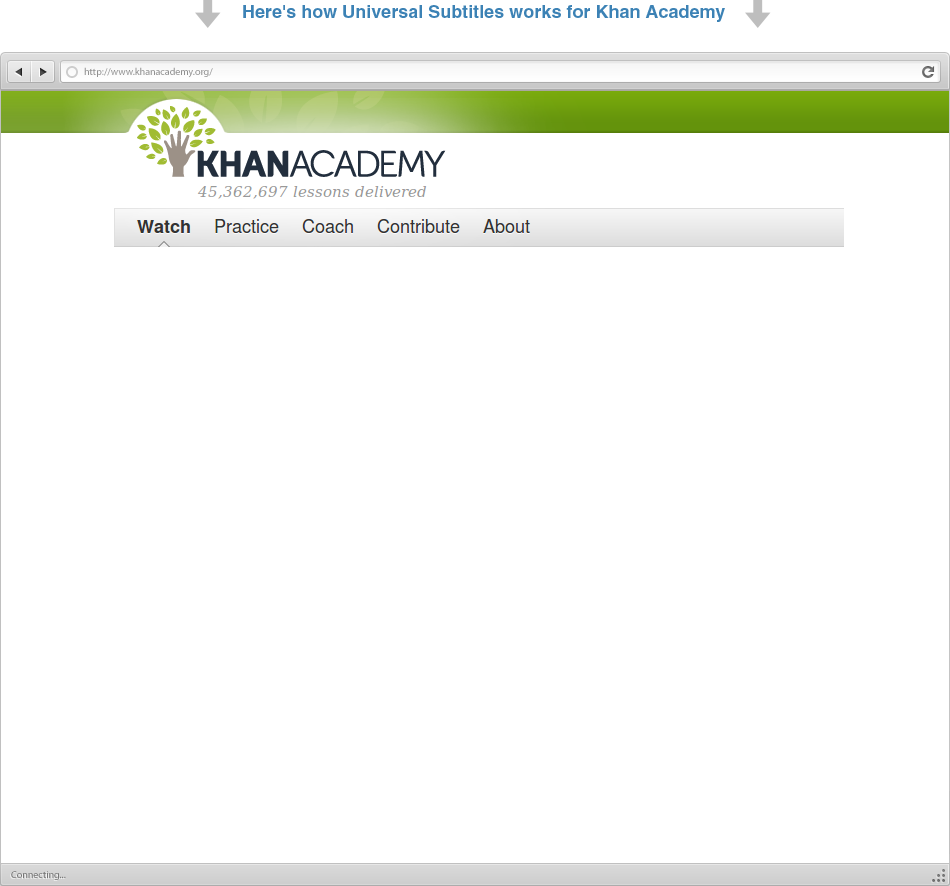
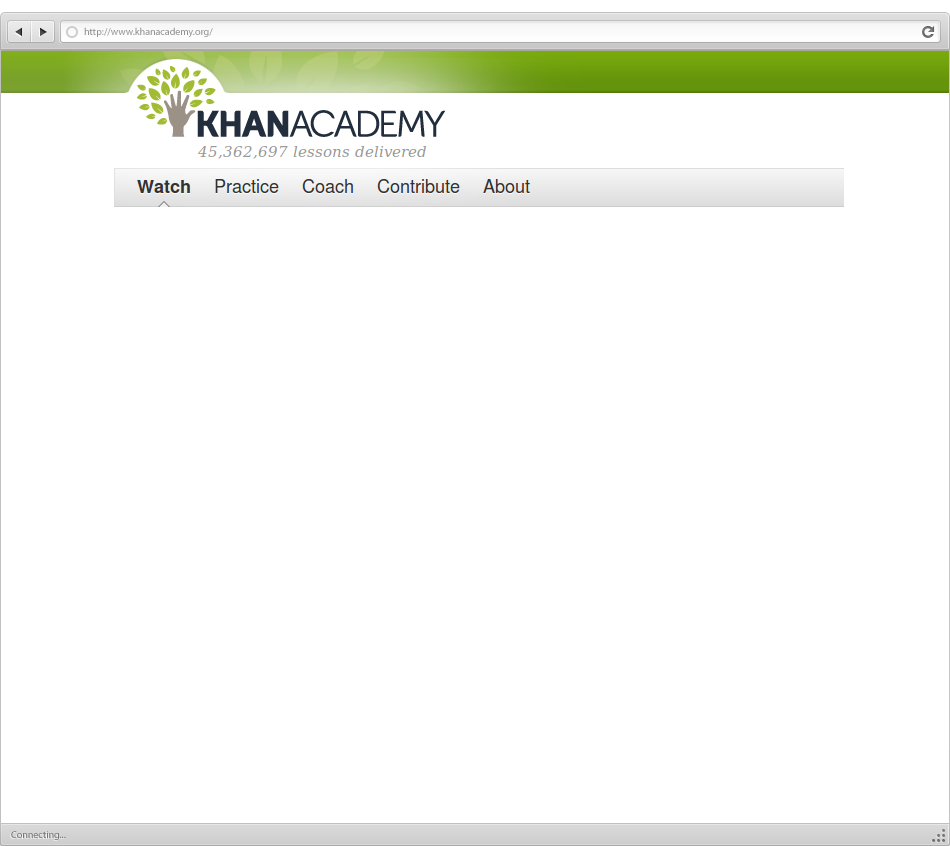
more updates to NGO...it would be hard to detail everything that changes in these commits.

Changed region(s): [[0.0, 0.0, 1.0, 0.2766], [0.0305, 0.9835, 0.0611, 1.0]]

diff --git a/templates/solutions/ngo.html b/templates/solutions/ngo.html
@@ -40,8 +40,8 @@
         video_url: "http://www.youtube.com/watch?v=Y2IJb1YnAmQ",
         video_config: {
                    color1: '0xFF0000',
-                   width: 440,
-                   height: 340
+                   width: 380,
+                   height: 280
                }
       })
       </script>
@@ -78,7 +78,7 @@
   <div class="pod" id="who_uses">
     <h3>Who Uses It?</h3>
     <p>NYTimes, MIT OpenCourseware, Wikipedia, Mozilla, Drupal, PBS NewsHour, and many more use the software or embed subtitled video with the service.</p>
-    
+    <br /><br /><br /><br />
   </div><!-- // who_uses -->
 </div><!-- // right -->
 
@@ -101,15 +101,16 @@
 </div><!-- // miro_ad -->
 
 <div style="margin: 40px 20px 0px 20px;" id="unisubs_action">
-  <h3>Universal Subtitles in Action</h3>
+  <h3 style="color: #31789d;">Here's how Universal Subtitles works for Khan Academy</h3>
   <p>Khan Academy is a not-for-profit with the goal of changing education for the better by providing a free world-class education to anyone anywhere. They decided their 1,600+ educational videos need to be available in all of the world’s languages.</p>
-  <p>Using Universal Subtitles, all of their videos are easily translatable. They have a growing volunteer community translating new videos every day.</p>
+  <img src="{{MEDIA_URL}}images/ngo_icon_demo.png" style="float: right;">
+  <p style="width: 700px;">Using Universal Subtitles, all of their videos are easily translatable. They have a growing volunteer community translating new videos every day.</p>
 </div><!-- // unisubs_action -->
 
-<div id="khan" style="position: relative;">
-  <div style="position: absolute; top: 675px; right: -130px; width: 741px; height: 91px; background: transparent url({{MEDIA_URL}}images/ngo_subtab_bubble.png) 0 0 no-repeat; z-index: 9;"></div>
-  <div style="position: absolute; top: 375px; right: -180px; width: 314px; height: 91px; background: transparent url({{MEDIA_URL}}images/ngo_vidsupport.png) 0 0 no-repeat; z-index: 9;"></div>
+<div id="khan">
   <div id="video_container">
+    <div style="position: absolute; top: 410px; right: -220px; width: 741px; height: 91px; background: transparent url({{MEDIA_URL}}images/ngo_subtab_bubble.png) 0 0 no-repeat; z-index: 9;"></div>
+    <div style="position: absolute; top: 150px; right: -240px; width: 314px; height: 91px; background: transparent url({{MEDIA_URL}}images/ngo_vidsupport.png) 0 0 no-repeat; z-index: 9;"></div>
     <div style="width: 700px; margin: 0 auto; height: 440px; background: #000;">
   <script type="text/javascript" src="http://s3.www.universalsubtitles.org/embed.js">
   (

diff --git a/media/css/solutions.css b/media/css/solutions.css
@@ -225,7 +225,7 @@ a:hover.learn_more {
 
 #khan {
 	width: 950px;
-	height: 886px;
+	height: 846px;
 	background: transparent url(../images/ngo_khan_shot.png) 0 0 no-repeat;
 	position: relative;
 	left: -5px;
@@ -233,7 +233,7 @@ a:hover.learn_more {
 
 #khan #video_container {
 	position: relative;
-	top: 260px;
+	top: 220px;
 	width: 727px;
 	height: 340px;
 	left: 120px;
